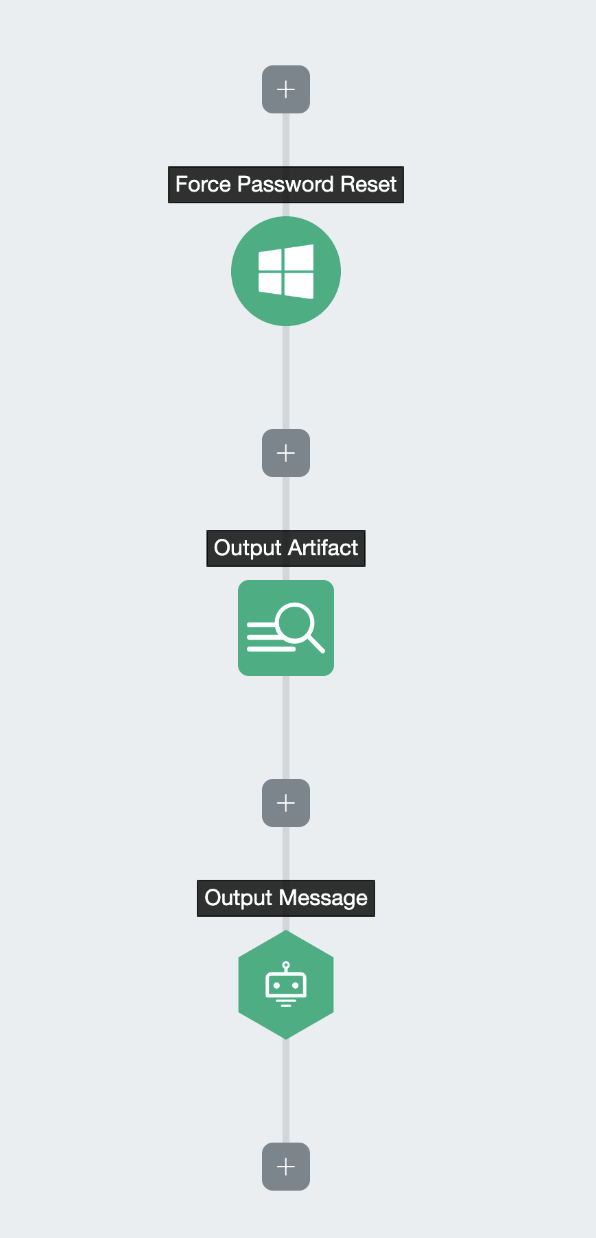
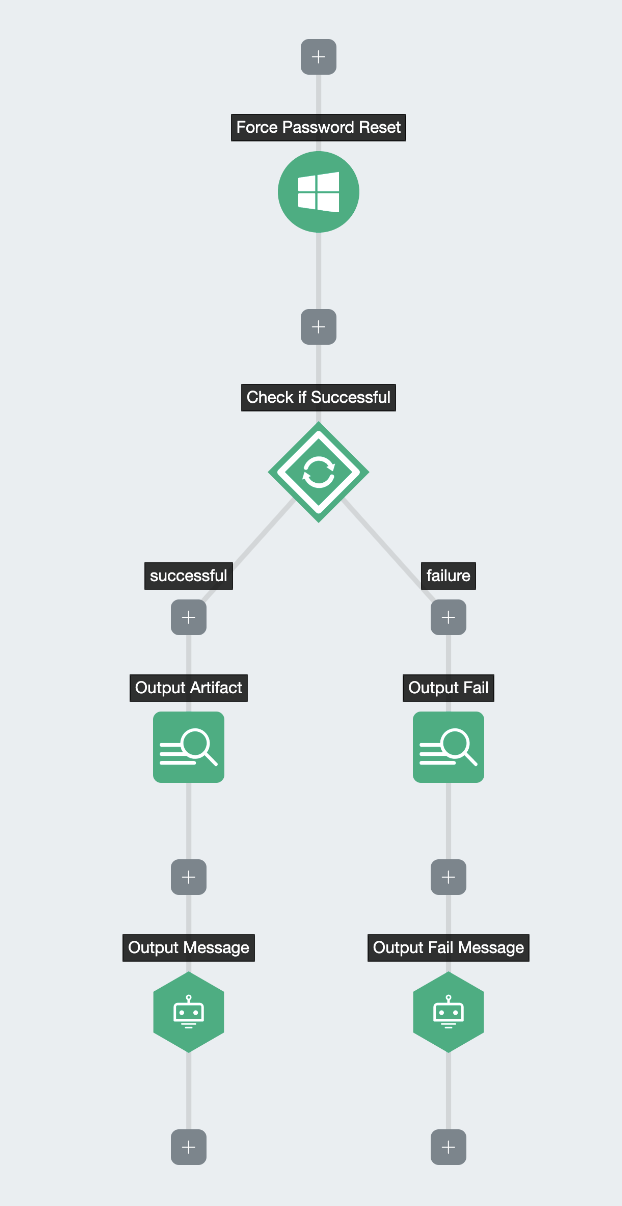
caps

Changed region(s): [[0.1812, 0.0307, 0.8758, 0.9818]]

diff --git a/workflows/Force_Password_Reset_in_Active_Directory_With_Slack/help.md b/workflows/Force_Password_Reset_in_Active_Directory_With_Slack/help.md
@@ -15,13 +15,13 @@ This workflow triggers from directly slack messaging the chatbot to \"!reset_pas
 
 ## Setup
 
-Once the workflow has been downloaded, login to InsightConnect and "Import" it into the workflow builder. Once imported, you will initially be prompted to configure the connection for slack and active directory.
-In addition The `Find DN` step Will need the Search Base field to be defined. This field should be based on your Active Directory domain.
+Once the workflow has been downloaded, login to InsightConnect and "Import" it into the workflow builder. Once imported,
+you will initially be prompted to configure the connection for slack and Active Directory.
+In addition The `Find DN` step will need the Search Base field to be defined. This field should be based on your Active Directory domain.
 For example if your domain is example.com then the Search Base would be DC=example,DC=com
 
-To run the workflow, @ your Slackbot in any channel or in a direct message along with the command "!reset_password <hash>".
-Or use !nvestigate help for more information and examples.
-The workflow will post with the results of the lookup.
+To run the workflow, @ your Slackbot in any channel or in a direct message along with the command "!reset_password <username>".
+The workflow will post whether the force reset was successful or not.
 
 ## Technical Details
 
@@ -29,9 +29,7 @@ Plugins utilized by workflow:
 
 |Plugin|Version|Count|
 |----|----|--------|
-|Dig|1.0.5|1|
-|Team Cymru MHR|1.0.4|1|
-|Whois|2.0.1|2|
+|Active Directory LDAP|3.2.8|2|
 
 ## Troubleshooting
 
